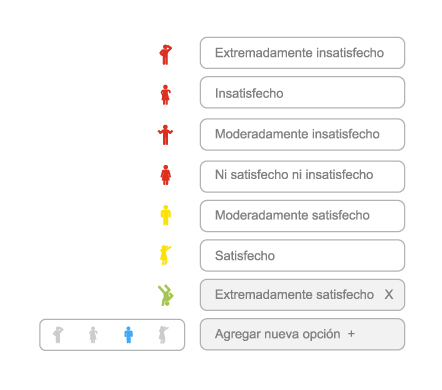
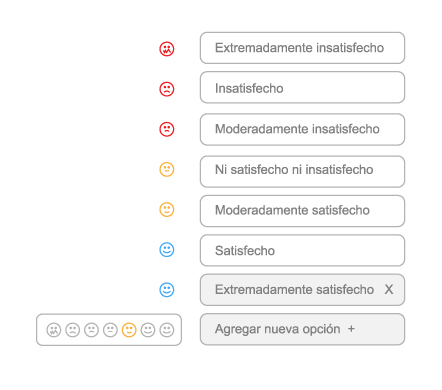
up

diff --git a/themes/question/personas/survey/questions/answer/arrays/10point/answer_alt.php b/themes/question/personas/survey/questions/answer/arrays/10point/answer_alt.php
@@ -1,0 +1,33 @@
+<?php
+/**
+ * array 10 point choice Html
+ *
+ * @var $sColumns   : the columns, generated with the view columns/col.php
+ * @var $sHeaders   : the headers, generated with the view rows/cell/thead.php
+ * @var $sRows      : the rows, generated with the view rows/answer_row.php
+ * @var $extraclass
+ * @var $answerwidth
+ */
+?>
+<!-- Array 10 point choice -->
+
+<!-- answer -->
+platnilla php
+<table class="<?php echo $coreClass; ?> table table-bordered table-hover table-10-point-array" role="group" aria-labelledby="ls-question-text-<?php echo $basename ?>">
+    <!-- Columns -->
+    <colgroup class="col-responses">
+        <col class="col-answers" style='width: <?php echo $answerwidth; ?>%;' />
+      
+    </colgroup>
+    <thead aria-hidden="true">
+      
+    </thead>
+    <tbody>
+        <?php
+            // rows/answer_row.php
+            echo $sRows;
+        ?>
+    </tbody>
+</table>
+
+<!-- end of answer -->

diff --git a/themes/question/personas/survey/questions/answer/arrays/10point/rows/answer_row.php b/themes/question/personas/survey/questions/answer/arrays/10point/rows/answer_row.php
@@ -23,23 +23,9 @@
         ));
         ?>
     </th>
- 
+    <?php
+        // defined in rows/cells/*
+        echo $answer_tds;
+    ?>
 </tr>
-
-<tr id="javatbd<?php echo $myfname;?>" class="answers-list radio-list form-group <?php echo ($odd) ? "ls-odd" : "ls-even"; ?> <?php echo ($error) ? " ls-error-mandatory has-error" : ""; ?>"  <?php echo $sDisplayStyle; ?>  role="radiogroup"  aria-labelledby="answertext<?php echo $myfname;?>">
-    <th id="answertext<?php echo $myfname;?>" class="answertext control-label<?php echo ($answerwidth==0)? " sr-only":""; ?>">
-       
-       carita
-        <?php
-        /* Value for expression manager javascript (use id) ; no need to submit */
-        echo \CHtml::hiddenField("java{$myfname}",$value,array(
-            'id' => "java{$myfname}",
-            'disabled' => true,
-        ));
-        ?>
-    </th>
- 
-</tr>
-
-
 <!-- end of answer_row -->

diff --git a/themes/question/personas/survey/questions/answer/arrays/10point/rows/cells/answer_td_input.php b/themes/question/personas/survey/questions/answer/arrays/10point/rows/cells/answer_td_input.php
@@ -1,0 +1,27 @@
+<?php
+/**
+ * Array 5 point choice
+ * @var $i
+ * @var $myfname
+ * @var $CHECKED
+ * @var $checkconditionFunction
+ * @var $value
+ */
+?>
+
+<!-- answer_td_input -->
+<tr class="answer_cell_<?php echo $i;?><?php echo ($i==="") ? ' noanswer-item':''; ?> answer-item radio-item">
+   <td>
+   <input
+        type="radio"
+        name="<?php echo $myfname; ?>"
+        id="answer<?php echo $myfname; ?>-<?php echo $i;?>"
+        value="<?php echo $value; ?>"
+        <?php echo $CHECKED;?>
+     />
+    <label for="answer<?php echo $myfname;?>-<?php echo $i; ?>"  class="ls-label-xs-visibility">
+        <?php echo $labelText;?>
+    </label>
+   </td>
+</tr>
+<!-- end of answer_td_input -->

diff --git a/themes/question/personas/survey/questions/answer/arrays/10point/rows/cells/header_information.php b/themes/question/personas/survey/questions/answer/arrays/10point/rows/cells/header_information.php
@@ -1,0 +1,11 @@
+<?php
+/**
+ * Array header : informationnal item
+ * @var $class
+ * @var $content
+ */
+?>
+
+<?php
+  echo doRender('/survey/questions/answer/global/table/cell/head_information', array('class'=>$class,'content'=>$content,true));
+?>

diff --git a/themes/question/personas/survey/questions/answer/arrays/10point/rows/cells/header_answer.php b/themes/question/personas/survey/questions/answer/arrays/10point/rows/cells/header_answer.php
@@ -1,0 +1,10 @@
+<?php
+/**
+ * Array header : answer or sub question
+ * @var $class
+ * @var $content
+ */
+?>
+<?php
+  echo doRender('/survey/questions/answer/global/table/cell/head_header', array('class'=>$class,'content'=>$content,true));
+?>

diff --git a/themes/question/personas/survey/questions/answer/arrays/10point/columns/col.php b/themes/question/personas/survey/questions/answer/arrays/10point/columns/col.php
@@ -1,0 +1,12 @@
+<?php
+/**
+ * Array 10pointchoice, column
+ *
+ * @var $odd_even
+ * @var $cellwidth
+ */
+?>
+
+<!-- col -->
+<col class="<?php echo $odd_even; ?>" style='width: <?php echo $cellwidth; ?>%;' />
+<!-- end of col -->
